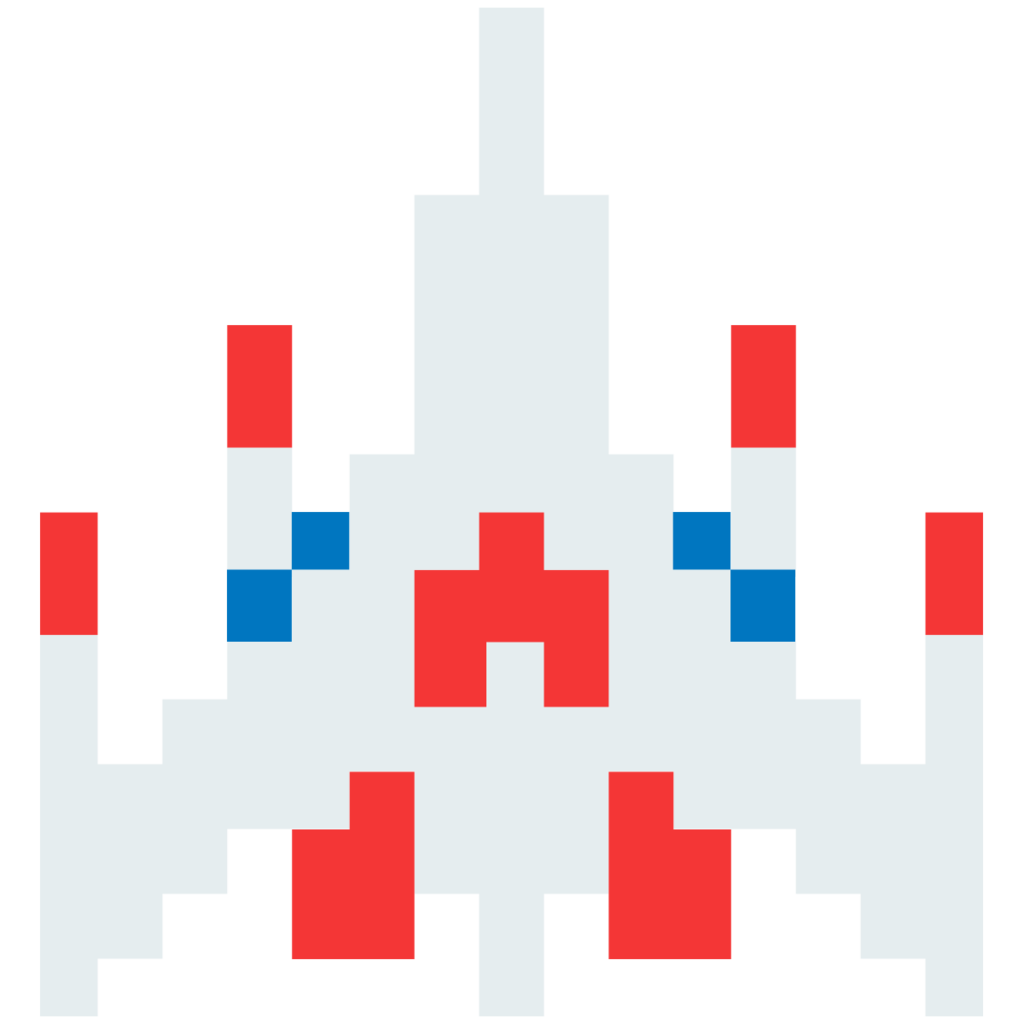
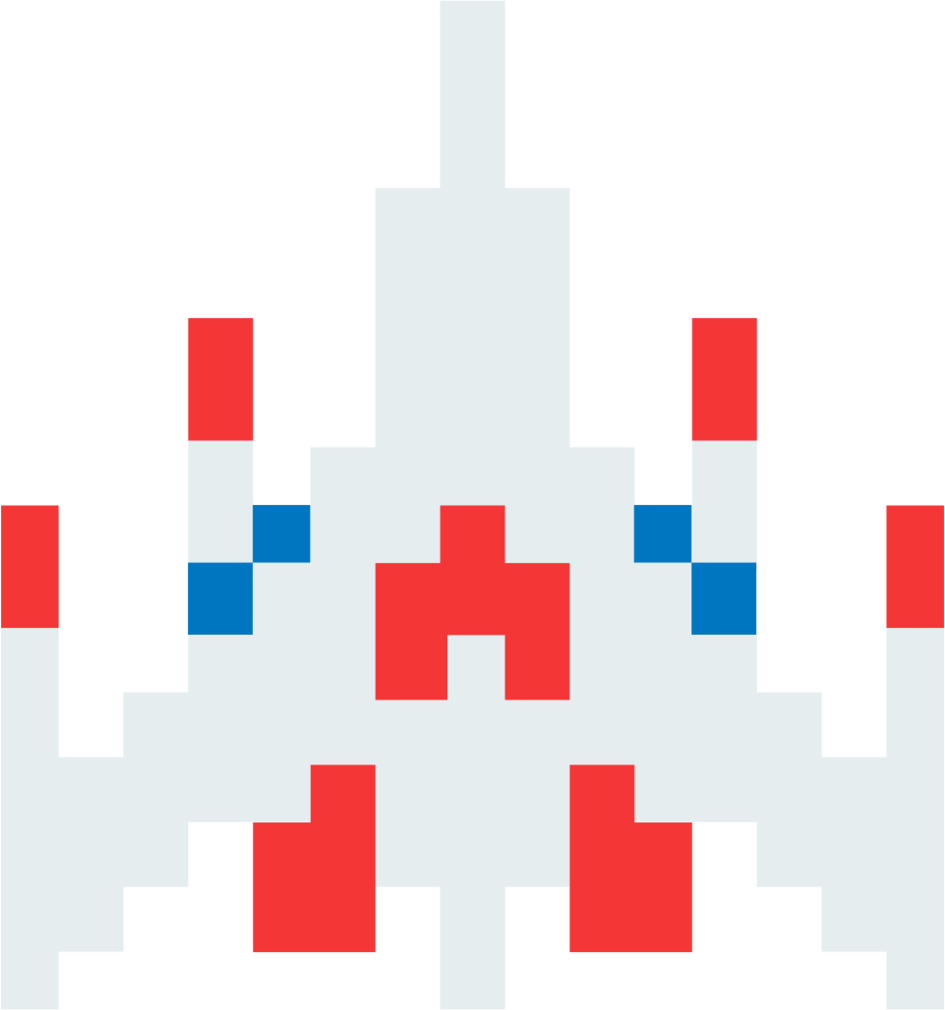
Rudimentary firing based on A pitch works

diff --git a/PerfectPitchSpaceInvaders.py b/PerfectPitchSpaceInvaders.py
@@ -1,13 +1,19 @@
 import pygame
 from pygamegame import PygameGame
 from Ship import Ship
-
+from Bullet import Bullet
+from PitchDetectionObject import PitchDetectionObject
 # PygameGame superclass from Lukas Peraza's optional lecture on Pygame
 class PerfectPitchSpaceInvaders(PygameGame): 
+
+    def __init__(self, width=700, height=850, fps=30,
+                                                    title="Space Invaders 112"):
+        super().__init__(width, height, fps, title)
 
     def init(self):
         Ship.init(self.width,self.height)
         ship = Ship(self.width//2, self.height-Ship.image.get_height())
+        Bullet.init(self.width, self.height)
         # Using RenderUpdates subgroup of class for dirty rect blitting
         self.shipGroup = pygame.sprite.RenderUpdates(ship)
         self.bulletGroup = pygame.sprite.RenderUpdates()
@@ -15,16 +21,18 @@ class PerfectPitchSpaceInvaders(PygameGame):
         self.background = pygame.Surface((self.width,self.height))
         self.bgColor = (0,0,0)
         self.background.fill(self.bgColor)
+        self.pitchObject = PitchDetectionObject()
 
     def timerFired(self, dt):
         self.shipGroup.update(self.isKeyPressed, self.width, self.height)
-        #self.bulletGroup.update(...)
+        self.bulletGroup.update(self.width, self.height)
+        ## UNFINISHED#######################################################################
+        if self.pitchObject.getPitch() == "A":
+            self.fireBullet()
 
     def keyPressed(self, keyCode, modifier):
         if keyCode == pygame.K_SPACE:
-            self.bulletGroup.add(Bullet(shipGroup.sprites()[0].x,
-                                        shipGroup.sprites()[0].y,
-                                        (0,-1)))
+            self.fireBullet()
 
     def redrawAll(self, screen):
         # drawing members of RenderUpdates groups to screen - outputs
@@ -35,3 +43,8 @@ class PerfectPitchSpaceInvaders(PygameGame):
         pygame.display.update(self.dirtyRects)
         #clear the list of dirty rects
         self.dirtyRects.clear()
+
+    def fireBullet(self):
+        self.bulletGroup.add(Bullet(self.shipGroup.sprites()[0].x,
+                                    self.shipGroup.sprites()[0].y,
+                                    (0,-1)))

diff --git a/Bullet.py b/Bullet.py
@@ -1,0 +1,34 @@
+import pygame, os
+
+class Bullet(pygame.sprite.Sprite):
+    @staticmethod
+    def init(screenWidth, screenHeight):
+        Bullet.width = screenWidth//50
+        Bullet.height = screenWidth//50 * 3
+        Bullet.image = pygame.Surface((Bullet.width,Bullet.height))
+        Bullet.image.fill((255,255,255))
+
+
+    def __init__(self, x, y, vector):
+        super().__init__()
+        self.x = x
+        self.y = y
+        self.image = Bullet.image
+        self.width, self.height = self.image.get_size()
+        self.rect = self.image.get_rect()
+        self.dx = vector[0]
+        self.dy = vector[1]
+        self.speed = 10
+        self.updateRect()
+
+    def updateRect(self):
+        self.rect = pygame.Rect(self.x - self.width//2, self.y - self.height//2,
+                                self.x + self.width//2, self.y + self.height//2)
+
+    def update(self, screenWidth, screenHeight):
+        self.x += self.dx * self.speed
+        self.y += self.dy * self.speed
+        self.updateRect()
+        if self.x < 0 or self.x > screenWidth or self.y < 0 or \
+            self.y >screenHeight:
+            self.kill()

diff --git a/Ship.py b/Ship.py
@@ -7,11 +7,18 @@ import pygame, os
 class Ship(pygame.sprite.Sprite):
     @staticmethod
     def init(screenWidth, screenHeight):
+        #loads ship and scales to screen
+        # Ship image from https://www.kisspng.com/
+        #   png-galaga-galaxian-golden-age-of-arcade-video-games-a-1052746/
+        #   download-png.html
         Ship.image = pygame.image.load(os.path.join("Photos",
                                                  "ship.png")).convert_alpha()
         widthHeightRatio = Ship.image.get_width() / Ship.image.get_height()
+
+        scaleFactor = 15 
         Ship.image = pygame.transform.scale(Ship.image,
-                    (screenWidth//15, int(screenWidth//15*widthHeightRatio)))
+                    (int(screenWidth//scaleFactor * widthHeightRatio),
+                        screenWidth//scaleFactor))
 
 
     def __init__(self, x, y):
@@ -40,4 +47,6 @@ class Ship(pygame.sprite.Sprite):
             self.dx = 0
 
         self.x += self.speed * self.dx
+        if self.x + self.width//2 >= screenWidth or self.x - self.width//2 <= 0:
+            self.x -= self.speed * self.dx
         self.updateRect()

diff --git a/PitchDetectionObject.py b/PitchDetectionObject.py
@@ -10,7 +10,7 @@ class PitchDetectionObject(object):
         self.sampleRate = 44100
         self.sampleSize = 1024
         self.tolerance = 0.8 #Tolerance for pitch detection
-
+        self.note = ''
 
         self.p = pyaudio.PyAudio()
 
@@ -57,7 +57,7 @@ class PitchDetectionObject(object):
     def kill(self):
         # Terminates PyAudio instance
         self.p.terminate()
-        self.note = None
+        self.note = ''
 
     def getPitch(self):
-        return self.note
+        return self.note[:-1]
